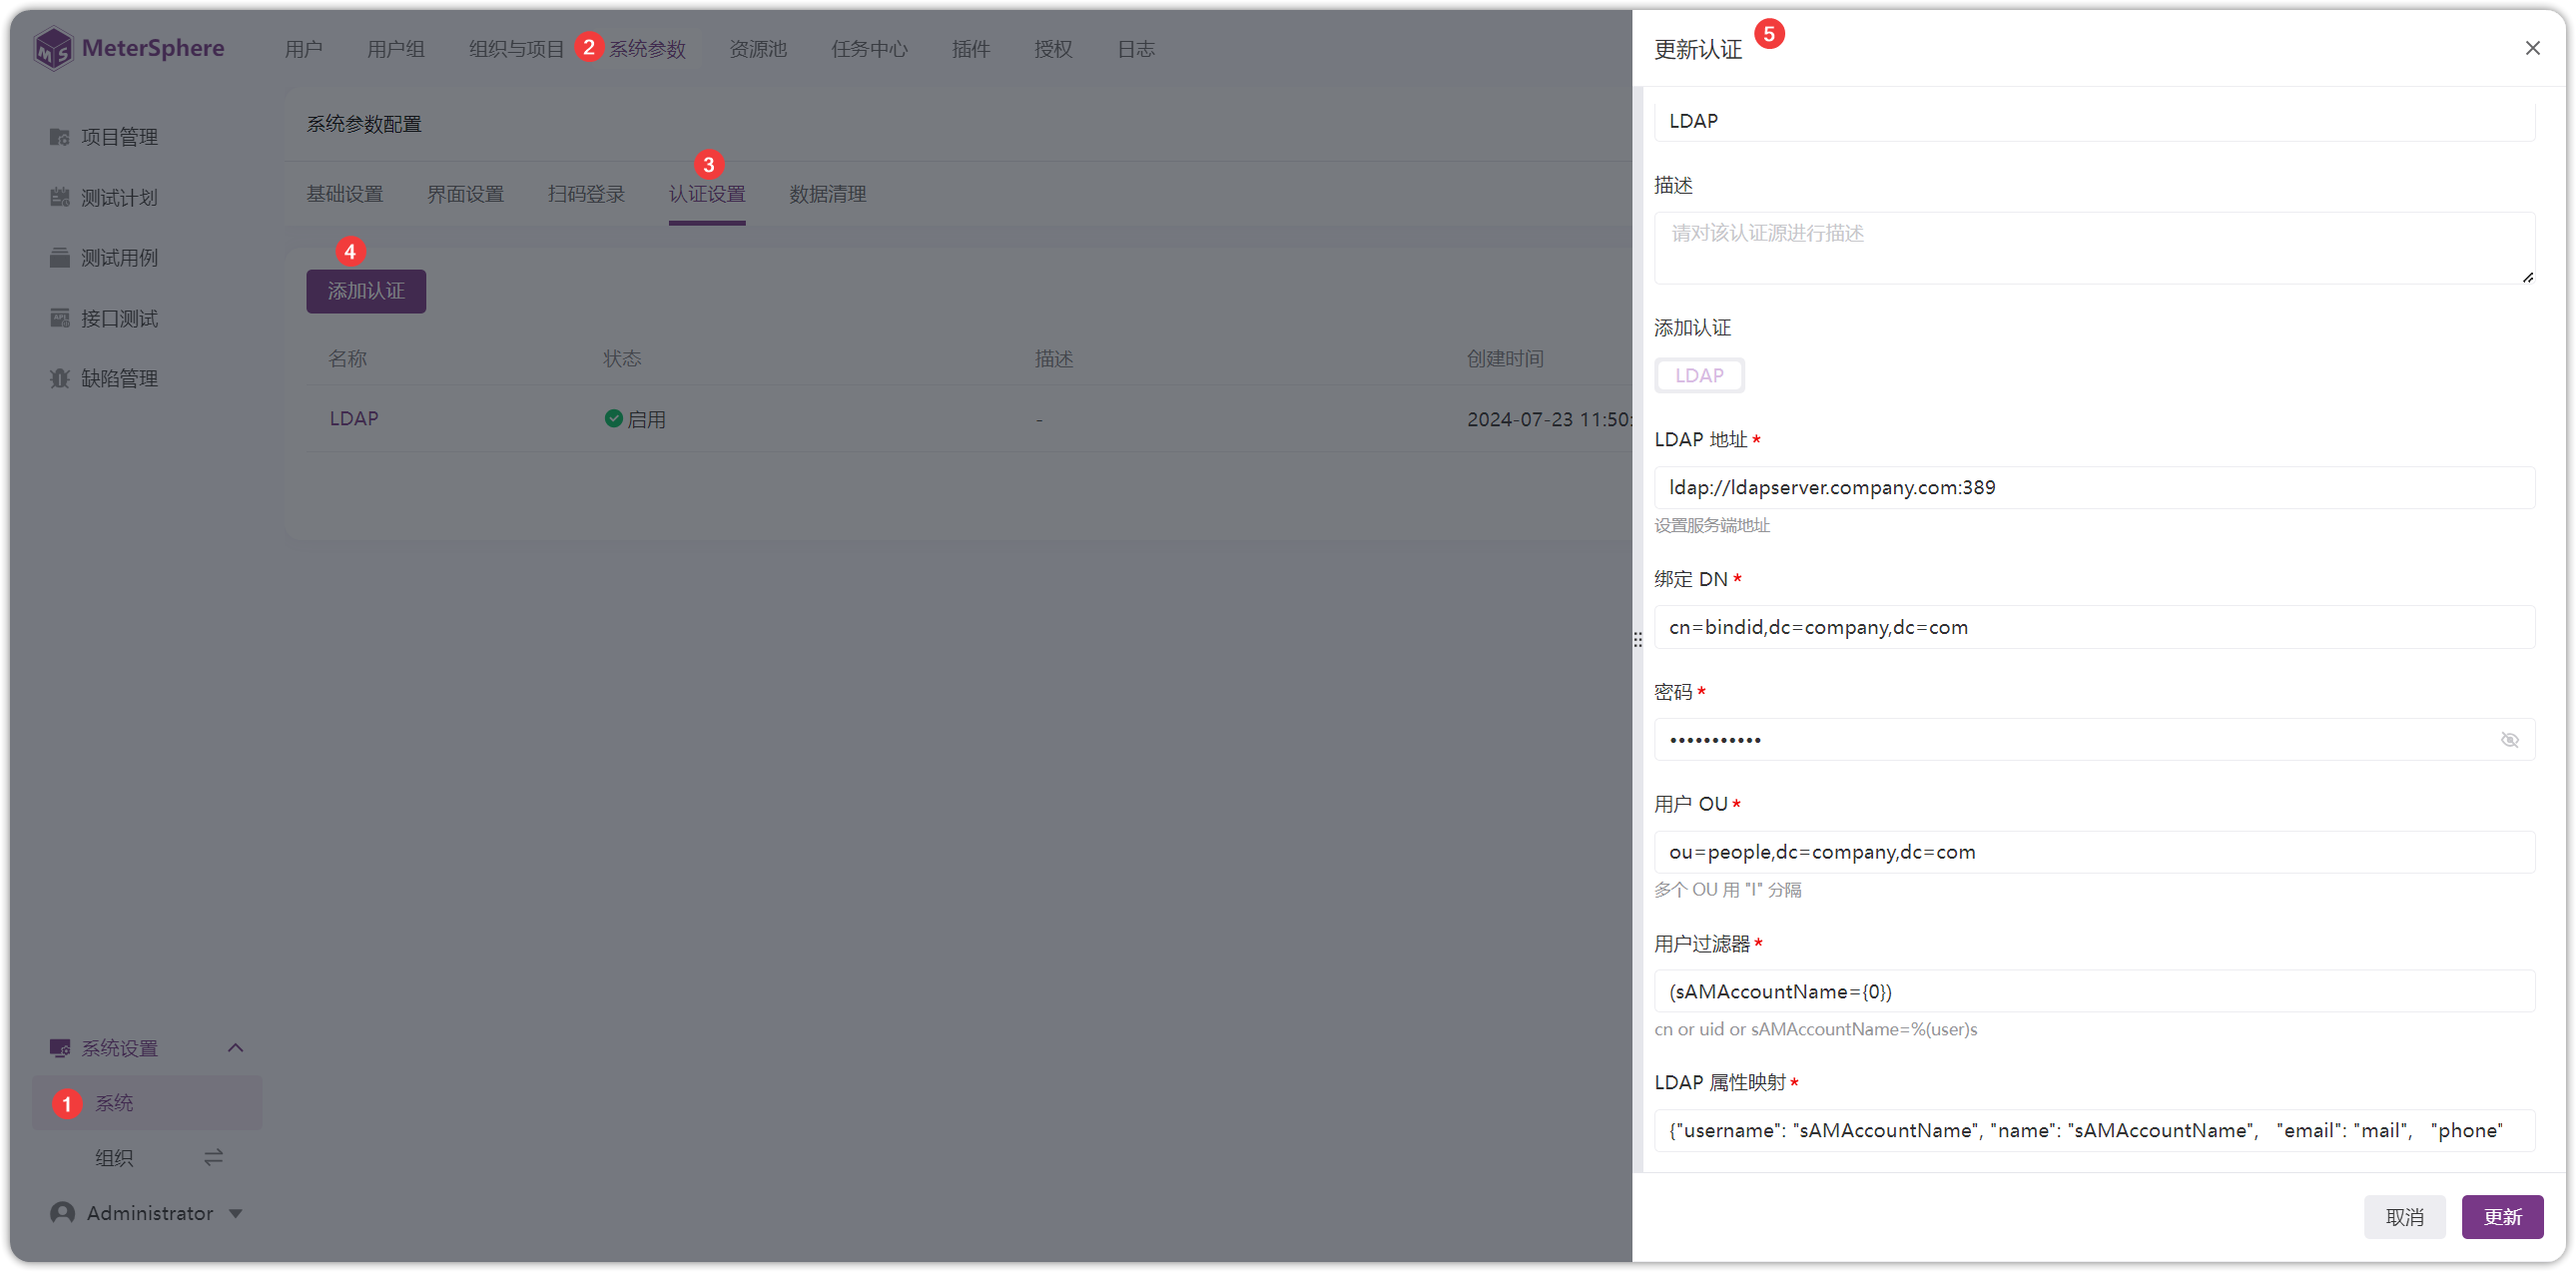
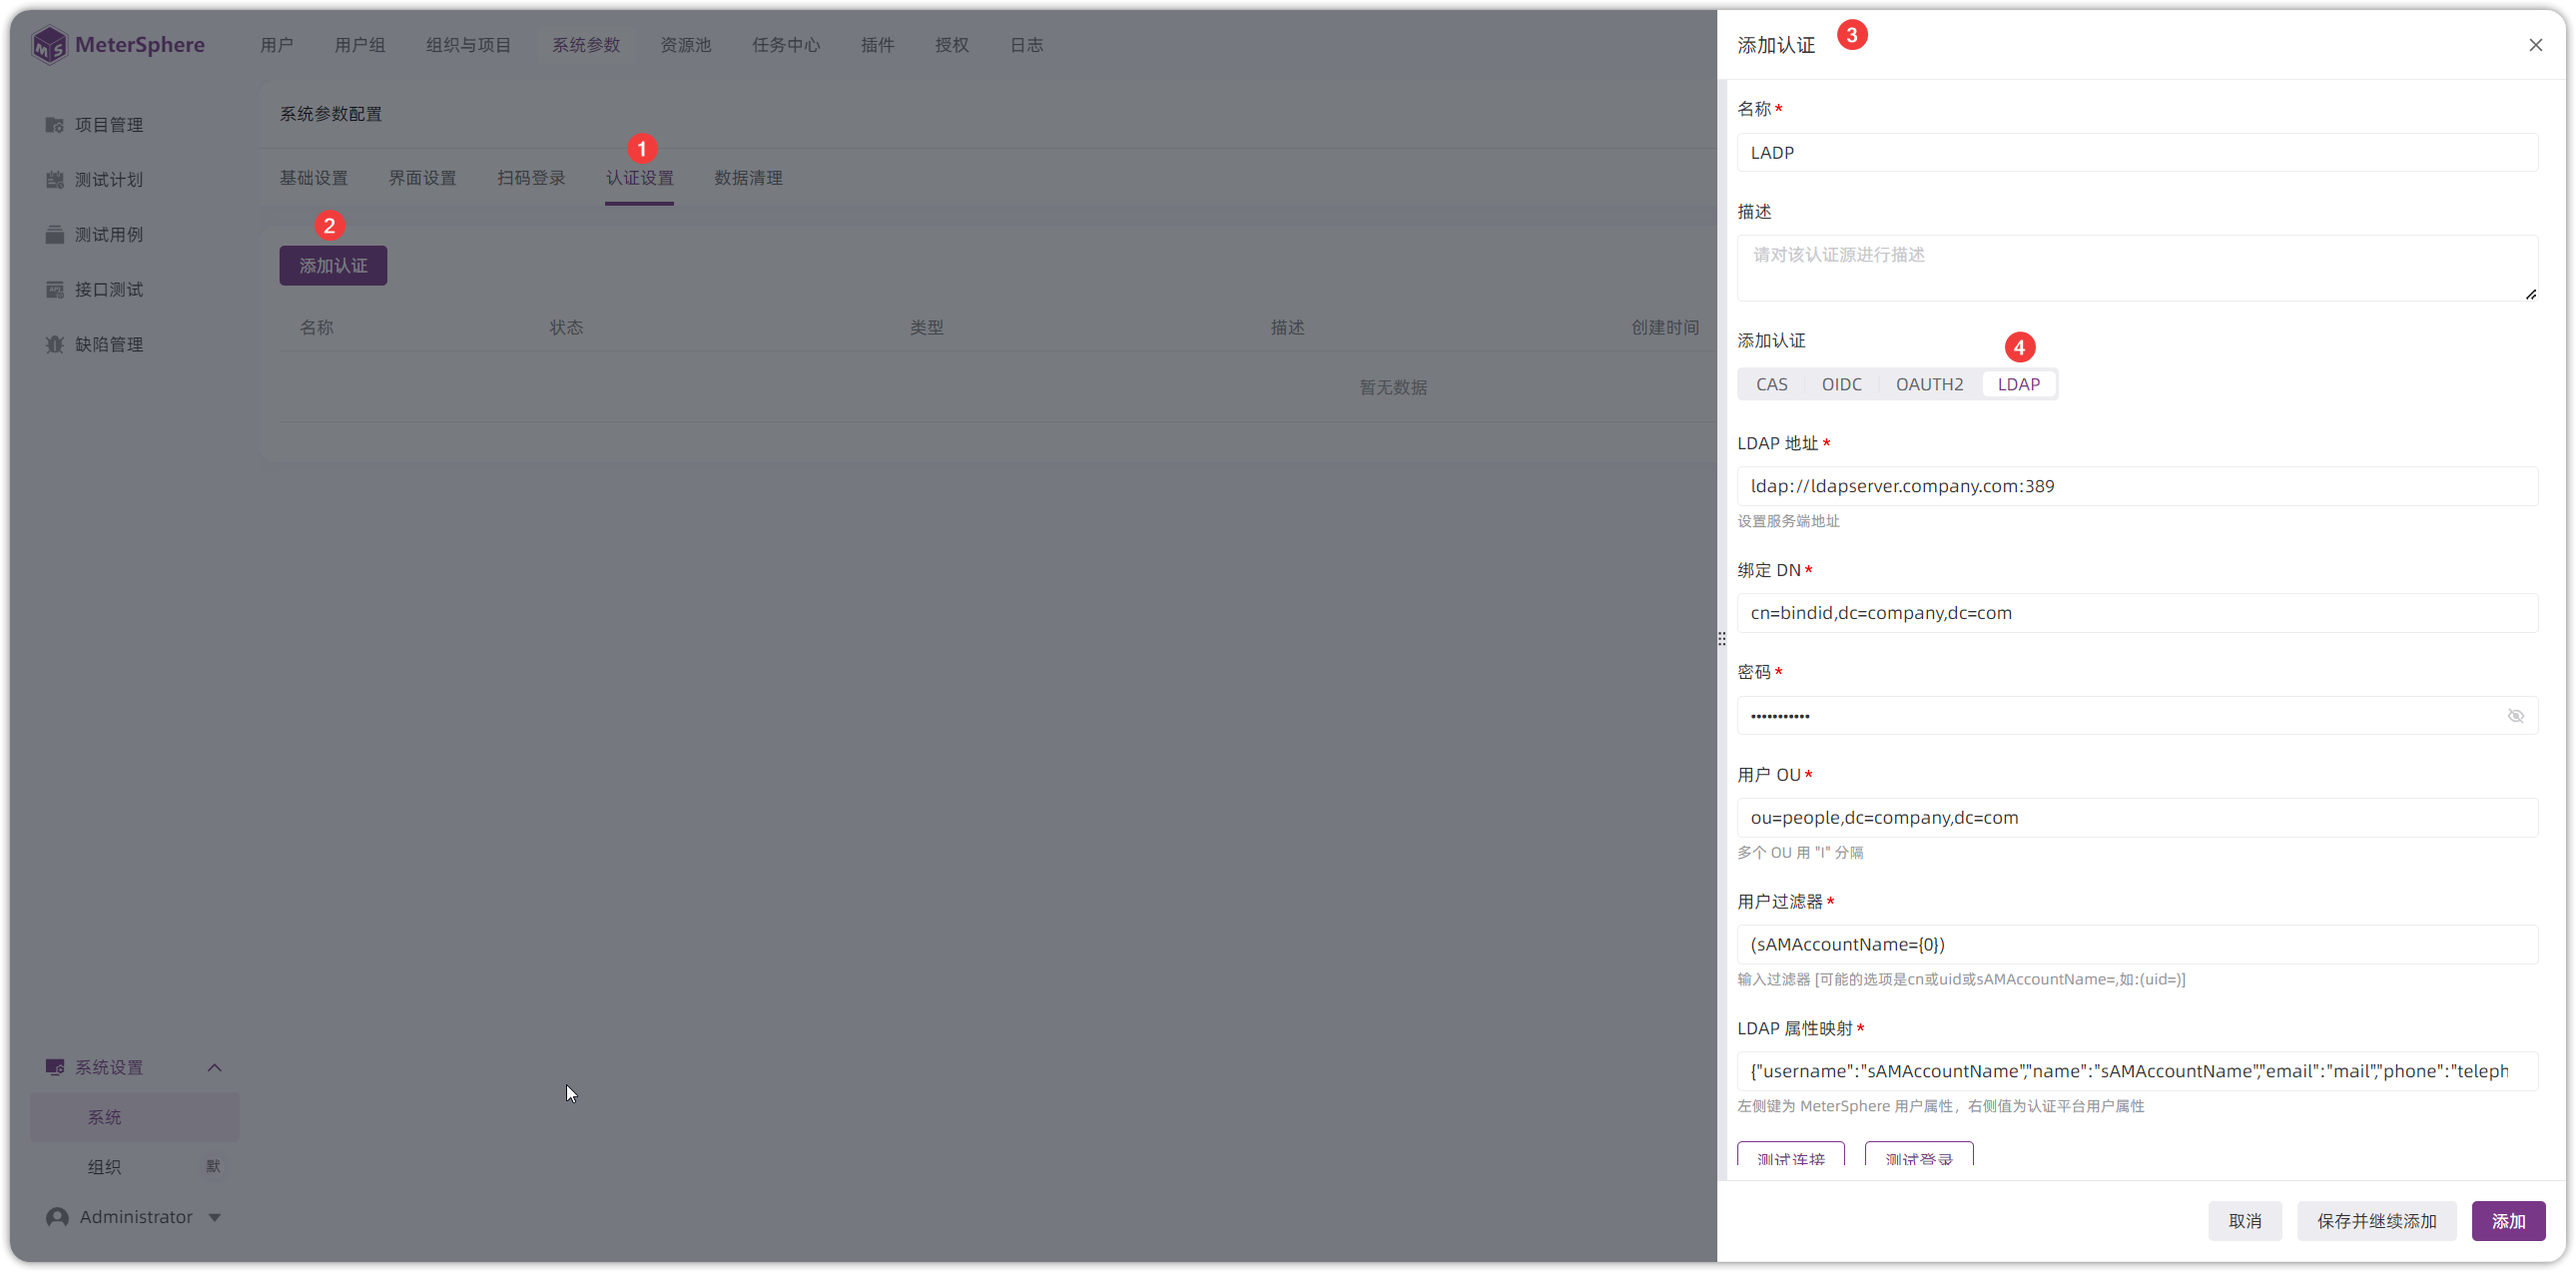
modified: 替换xpack-认证登录截图

diff --git a/docs/user_manual/x-pack/single_sign.md b/docs/user_manual/x-pack/single_sign.md
@@ -14,7 +14,11 @@
 
 ## 2 认证登录
 !!! ms-abstract ""
-    点击【系统-系统参数-认证设置-添加认证】进入认证配置页面。
+    点击【系统-系统参数-认证设置-添加认证】进入认证配置页面，支持【CAS】、【OIDC】、【OAUTH2】、【LDAP】多种类型认证。
+![!资源池列表页面](../../img/X-Pack/single_sign/认证配置图.png){ width="900px" }
+
+!!! ms-abstract ""
+    以 LDAP 登录为例，配置 LDAP 地址、绑定 DN、填写密码、用户 OU、用户过滤器、LDAP 属性映射等信息内容后，点击【测试连接】，连接通过后点击【保存】即可。
 ![!资源池列表页面](../../img/X-Pack/single_sign/ldap配置图.png){ width="900px" }
 
 !!! ms-abstract "字段"
